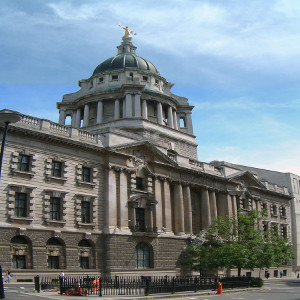
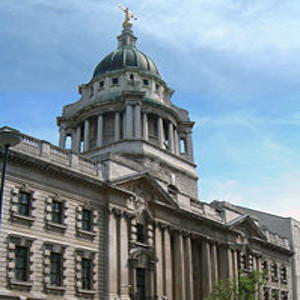
betere fotos

diff --git a/guide.html b/guide.html
@@ -24,7 +24,7 @@
     <div class="row">
         <a id="actie" class="anchor"></a>
         <div class="col-md-4">
-            <img src="/img/guide/cycle-secret-London.jpg" class="img-responsive mob-center-block" alt="Foto van een stop in de Secret tour">
+            <img src="/img/guide/nationalportraitgallery.jpg" class="img-responsive mob-center-block" alt="Foto van een stop in de Secret tour">
         </div>
         <div class="col-md-5 tour">
             <div lang="nl">{{.Markdown "/md/guide/actie.nl.md"}}</div>
@@ -37,7 +37,7 @@
     <div class="row">
         <a id="tips" class="anchor"></a>
         <div class="col-md-4">
-            <img src="/img/guide/cycle-secret-London.jpg" class="img-responsive mob-center-block" alt="Foto van een stop in de Secret tour">
+            <img src="/img/guide/spring.jpg" class="img-responsive mob-center-block" alt="Foto van een stop in de Secret tour">
         </div>
         <div class="col-md-5 tour">
             <div lang="nl">{{.Markdown "/md/guide/tips.nl.md"}}</div>
